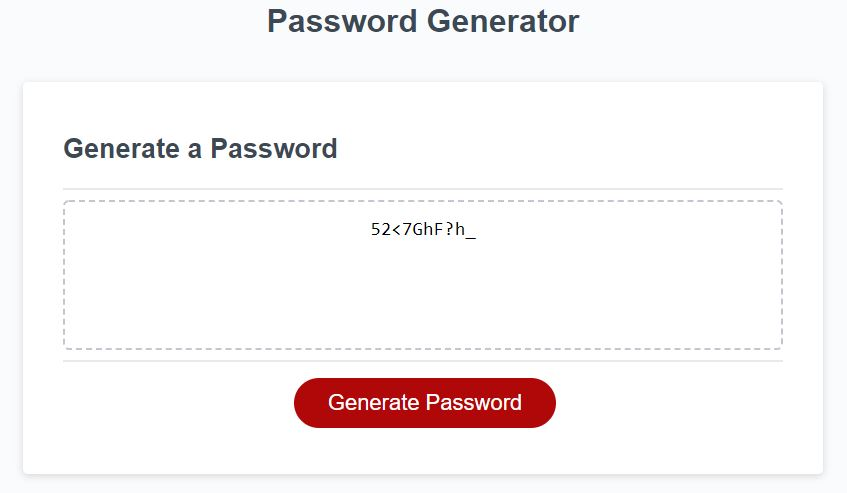
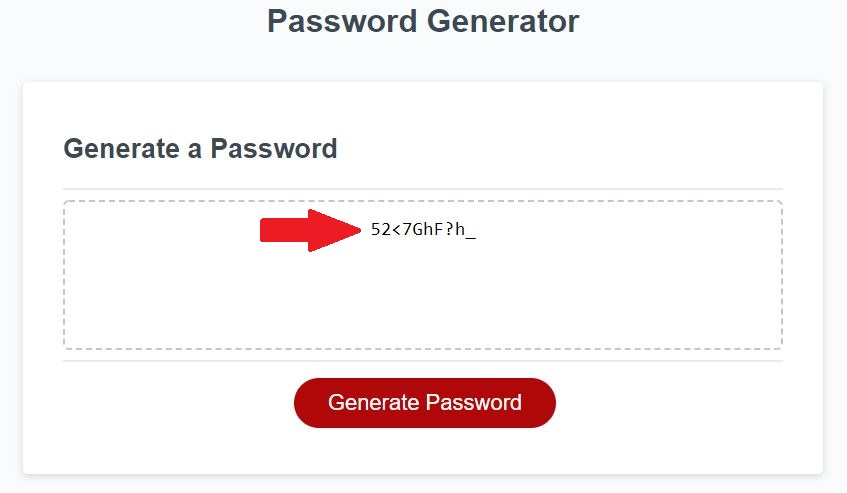
Update usage images, add indicator arrows

Changed region(s): [[0.307, 0.426, 0.4298, 0.5172]]

diff --git a/README.md b/README.md
@@ -13,36 +13,36 @@ This project takes the static base for a webpage to generate random passwords an
 ## Usage
 To initialize this program, simply click the generate password button.
 
-![Initialize]()
+![Initialize](./assets/images/Initialize.JPG)
 
 You will first be prompted with a pop-up asking to input the number value for your desired password length.
 
-![Prompt]()
+![Prompt](./assets/images/Prompt.JPG)
 
 You will then be asked in a series of pop-ups to confirm which character types to include in the password.
 
-![Confirm]()
+![Confirm](./assets/images/Confirm.JPG)
 
 If you enter an invalid response to the length pop-up, you will be told the password length parameters again and prompted again to enter a valid number. If you do not select at least one character type, you will also be told the character type parameter again and repeat the character selection process.
 
-![Alert]()
+![Alert](./assets/images/Alert.JPG)
 
 Once all the inputs have been given, your new password will be displayed in the central text field.
 
-![Complete]()
+![Complete](./assets/images/Complete.JPG)
 
 ## Features
 There were many javascript operations demonstrated throughout the course of this project that interact to produce the end product. Some of these include the prompt, confirm, and alert methods to display dialog boxes. These methods, such as the one shown below:
 
-![Confirm](./Confirm_Character_Type.png)
+![Confirm](./assets/images/Confirm_Character_Type.png)
 
 can be used to display a message to the user and gather information from them in response. Another useful tool is also on display, as the user respose is displayed to the console for developer feedback as to the functionality of the program. Boundary condition checks are also another neccessary component in an application such as this. In the below example, an alert message is sent to the user if no character types are selected and the function is looped back to the start. If there is at least one, it is allowed to continue.
 
-![Check Loop](./Character_Type_Check_Loop.png)
+![Check Loop](./assets/images/Character_Type_Check_Loop.png)
 
 The actual random number generation is accomplished by applying a random number operation to the length of an array containing the character types set up in the confirm statements. This number is then used to select a character type array. A similar process is done for subsequently pulling a value from that array to be used as the final character value.
 
-![Random Number Generation](./Random_Number_Character_Type.png)
+![Random Number Generation](./assets/images/Random_Number_Character_Type.png)
 
 ## Questions
 If you have any additional questions, feel free to reach out.
